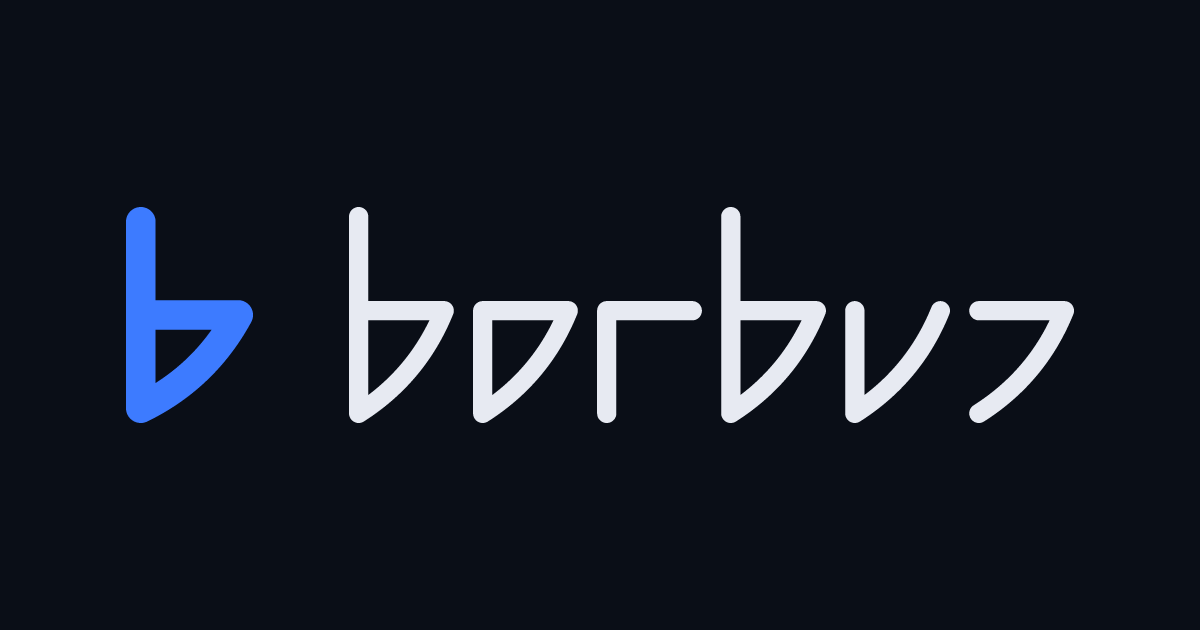
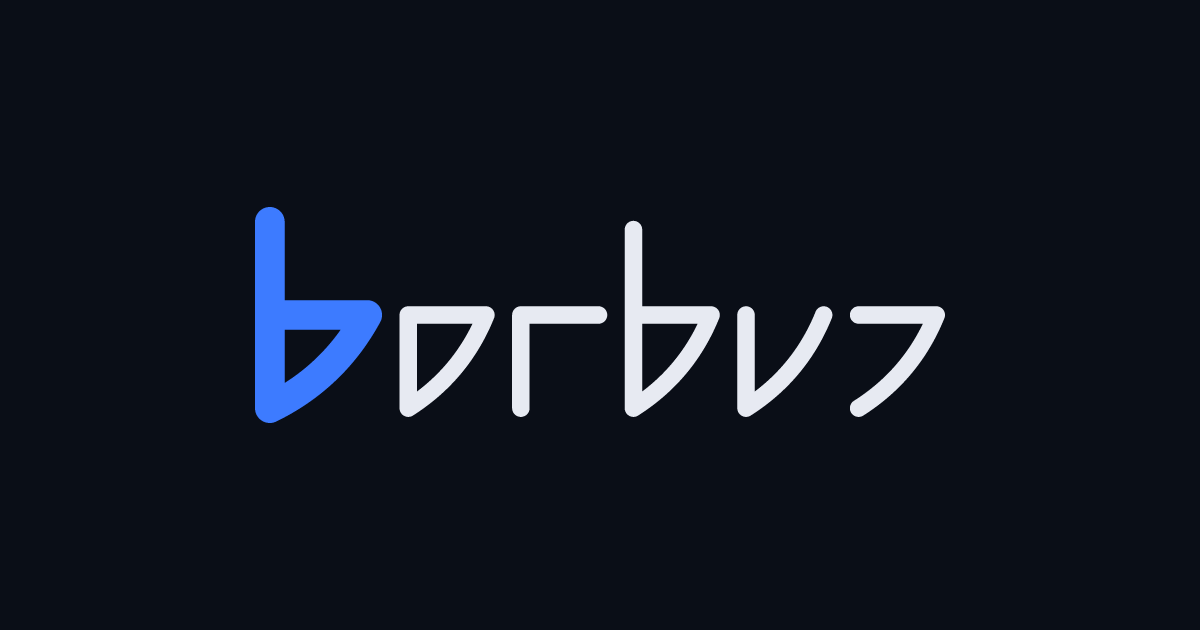
Lockup: the mark stands in for the first b, not beside it
The social card set the mark next to the full name, so it read "bbarbuz" —
the b drawn twice, once as the mark and once as a letter. The mark IS the b,
so the word beside it is "arbuz". This follows from the containment rule: the
mark is not a badge that happens to sit near the word, it is the word's first
letter.

Fixing it surfaced a second bug. The old code scaled the mark to the text's
ink height and aligned ink tops, which left the two baselines 5.2px apart:
the heavier stroke overshoots its cap more than the light one, so two boxes
of equal height are not the same letter in the same place. The mark is now
scaled on its bowl — baseline to x-height — and the pair shares a baseline.

The letter gap is measured ink to ink rather than from the mark's nominal
width, since the mark is wider than a text b (60 vs 49 units) and advancing
by the letter width would open a hole after it.

Add lockup() to mark.mjs: it returns the mark and the word already placed in
the text's coordinate space, so a caller scales and centres the pair as one
block. The mark stays a little taller and heavier than the letters — bowls
match, ascenders and weight do not, by design.

Only og.png changes. The other seven assets are byte-identical.

Changed region(s): [[0.0925, 0.3317, 0.8942, 0.6937]]

diff --git a/docs/DESIGN-NOTES.md b/docs/DESIGN-NOTES.md
@@ -243,6 +243,41 @@ silhouette. Round caps match the letters.
 A 16px favicon has no room for a hairline. The mark is cut heavier so it
 survives the smallest size it will ever be asked to work at.
 
+### The lockup: the mark is the first `b`
+
+Where the mark and the name sit together — the social card today — the mark
+**stands in for the first `b`**, and the word beside it is `arbuz`:
+
+```
+   [mark]  arbuz        ✅  the mark IS the b
+   [mark]  barbuz       ❌  b drawn twice
+```
+
+Setting the full name next to the mark doubles the letter: the reader sees
+`bbarbuz`. This is not a spacing tweak, it follows from the containment rule —
+the mark is not a badge that happens to sit near the word, it is the word's
+first letter. Any new lockup has to obey it.
+
+Two alignment rules come with it, and both are easy to get subtly wrong:
+
+- **Match the bowls, not the ink boxes.** The mark is scaled so its bowl
+  (baseline to x-height) equals the text's. The two then share a baseline. The
+  earlier version scaled the mark to the text's *ink height* and aligned *ink
+  tops* — which left the baselines **5.2px apart** on the card, because the
+  heavier stroke overshoots its cap more than the light one. Two boxes the same
+  height are not the same letter in the same place.
+- **Keep the letter gap even.** The word starts one letter-gap to the right of
+  the mark's ink, measured ink to ink (`gap - stroke`, i.e. 9 units), not from
+  the mark's nominal width. The mark is wider than a text `b` (60 vs 49 ink
+  units), so advancing by the letter's nominal width would open a hole after it.
+
+The mark stays a little taller and heavier than the letters in the lockup —
+bowls match, ascenders and weight do not, by design. That is the mark being the
+mark, not a fourth-rate text glyph.
+
+`lockup()` in `mark.mjs` returns the mark and the word already placed in the
+text's coordinate space, so a caller scales and centres the pair as one block.
+
 ### Assets
 
 Everything is generated from one geometry module, `brand/mark.mjs`, which holds
@@ -306,7 +341,7 @@ raising if the mark were ever rendered very large.
 | `static/apple-touch-icon.png` | 180, opaque |
 | `static/icon-192.png`, `icon-512.png` | manifest, tile form |
 | `static/icon-maskable-512.png` | manifest, padded for Android masks |
-| `static/og.png` | 1200×630 social card, mark + wordmark |
+| `static/og.png` | 1200×630 social card, the lockup (mark + `arbuz`) |
 
 **The tile is for app icons, not for tabs.** The mark is tall and narrow (60×102),
 so a square tile shrinks it to a few pixels at 16px. The favicon is therefore

diff --git a/brand/README.md b/brand/README.md
@@ -42,6 +42,15 @@ re-read `docs/DESIGN-NOTES.md` → "Why the rasterizer is hand-rolled".** The
 hand-rolled approach stops being exact at that point and a real renderer
 becomes the right call.
 
+## The lockup
+
+The mark is the `b`, so where the mark and the name appear together the mark
+**stands in for the first letter** and the word is `arbuz` — never `barbuz`,
+which draws the `b` twice. `lockup()` in `mark.mjs` places both parts, matches
+their bowls and shares a baseline, and returns them in the text's coordinate
+space so a caller scales and centres the pair as one block. Details and the two
+alignment rules: `docs/DESIGN-NOTES.md` → "The lockup".
+
 ## Consuming
 
 **CSS.** The page imports it directly, after the Tailwind directives:

diff --git a/AGENTS.md b/AGENTS.md
@@ -134,6 +134,11 @@ trigger are in `docs/DESIGN-NOTES.md#why-the-rasterizer-is-hand-rolled--and-when
 Placement is shared too: `markFit()` in `mark.mjs` is the only place the
 square-tile fit lives, so the SVG and the raster cannot drift.
 
+**In any lockup, the mark is the first `b`** — so the word beside it is `arbuz`,
+never `barbuz`. Use `lockup()` in `mark.mjs`; it places both parts and matches
+the bowls and baseline. Setting the full name draws the `b` twice. See
+`docs/DESIGN-NOTES.md#the-lockup-the-mark-is-the-first-b`.
+
 ## Order of work
 
 Page-only phases first, then the apps. `docs/BRAND-PLAN.md` is the authority;
